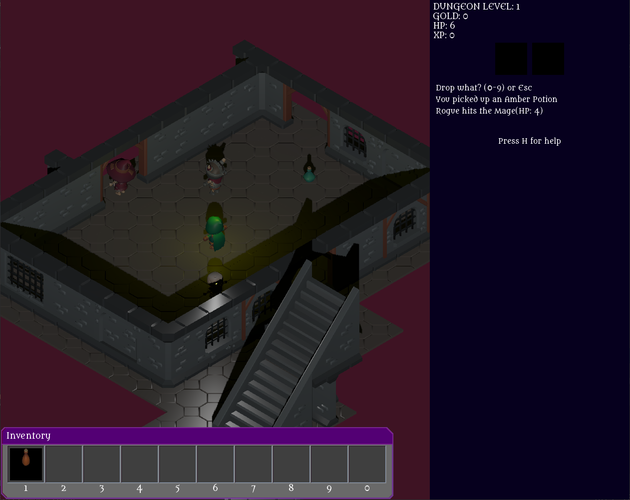
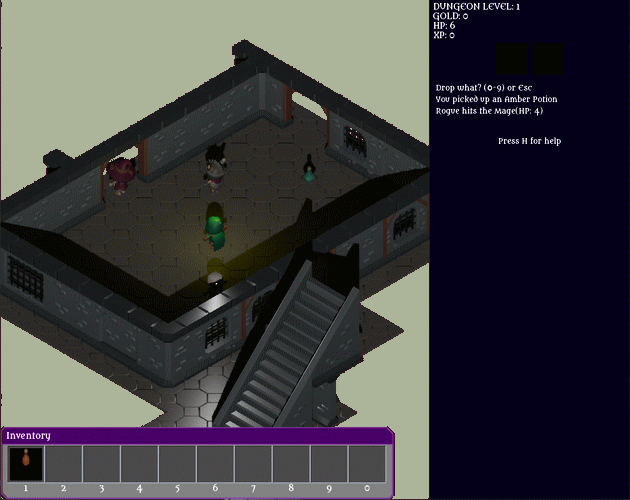
added vignette

diff --git a/core/src/main/java/com/monstrous/dungeongame/Filter.java b/core/src/main/java/com/monstrous/dungeongame/Filter.java
@@ -8,6 +8,7 @@ import com.badlogic.gdx.graphics.g2d.SpriteBatch;
 import com.badlogic.gdx.graphics.glutils.FrameBuffer;
 import com.badlogic.gdx.graphics.glutils.ShaderProgram;
 import com.badlogic.gdx.utils.Disposable;
+import com.badlogic.gdx.utils.GdxRuntimeException;
 
 
 // Filter class for post-processing shader effects
@@ -21,7 +22,11 @@ public class Filter implements Disposable {
         public Filter() {
             batch = new SpriteBatch();
             bufferCam = new OrthographicCamera(Gdx.graphics.getWidth(), Gdx.graphics.getHeight());
-            shader = null;      // set a shader in derived classes
+            shader = new ShaderProgram(
+                    Gdx.files.internal("shaders\\vignette.vertex.glsl"),
+                    Gdx.files.internal("shaders\\vignette.fragment.glsl"));
+             if (!shader.isCompiled())
+                    throw new GdxRuntimeException(shader.getLog());
         }
 
         public void resize(int width, int height ) {

diff --git a/lwjgl3/src/main/java/com/monstrous/dungeongame/lwjgl3/Lwjgl3Launcher.java b/lwjgl3/src/main/java/com/monstrous/dungeongame/lwjgl3/Lwjgl3Launcher.java
@@ -28,6 +28,7 @@ public class Lwjgl3Launcher {
         //// useful for testing performance, but can also be very stressful to some hardware.
         //// You may also need to configure GPU drivers to fully disable Vsync; this can cause screen tearing.
         configuration.setWindowedMode(1200, 800);
+        configuration.setBackBufferConfig(8, 8, 8, 8, 16, 0, 4);
         //// You can change these files; they are in lwjgl3/src/main/resources/ .
         configuration.setWindowIcon("monstrous128.png", "monstrous64.png", "monstrous32.png", "monstrous16.png");
         return configuration;

diff --git a/teavm/src/main/java/com/monstrous/dungeongame/teavm/TeaVMLauncher.java b/teavm/src/main/java/com/monstrous/dungeongame/teavm/TeaVMLauncher.java
@@ -19,6 +19,7 @@ public class TeaVMLauncher {
         //// If width and height are both -1, then the app will fill the canvas size.
         config.width = 0;
         config.height = 0;
+        config.antialiasing = true;
         new TeaApplication(new Main(), config);
     }
 }
